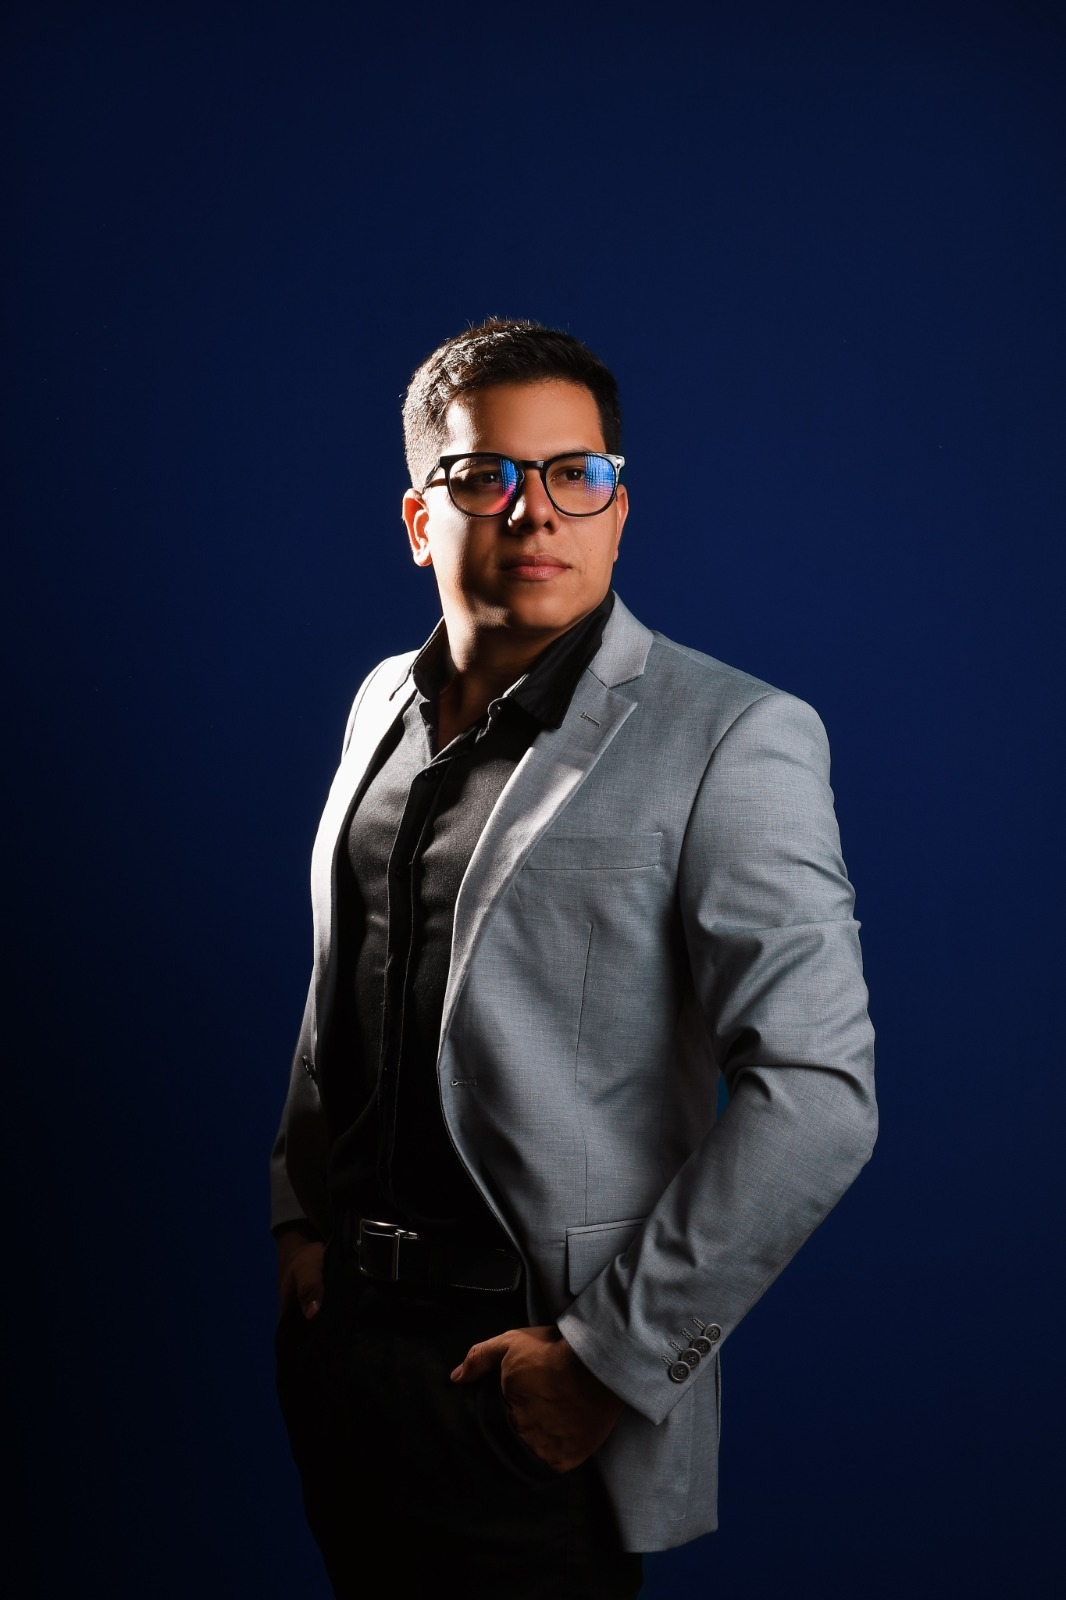
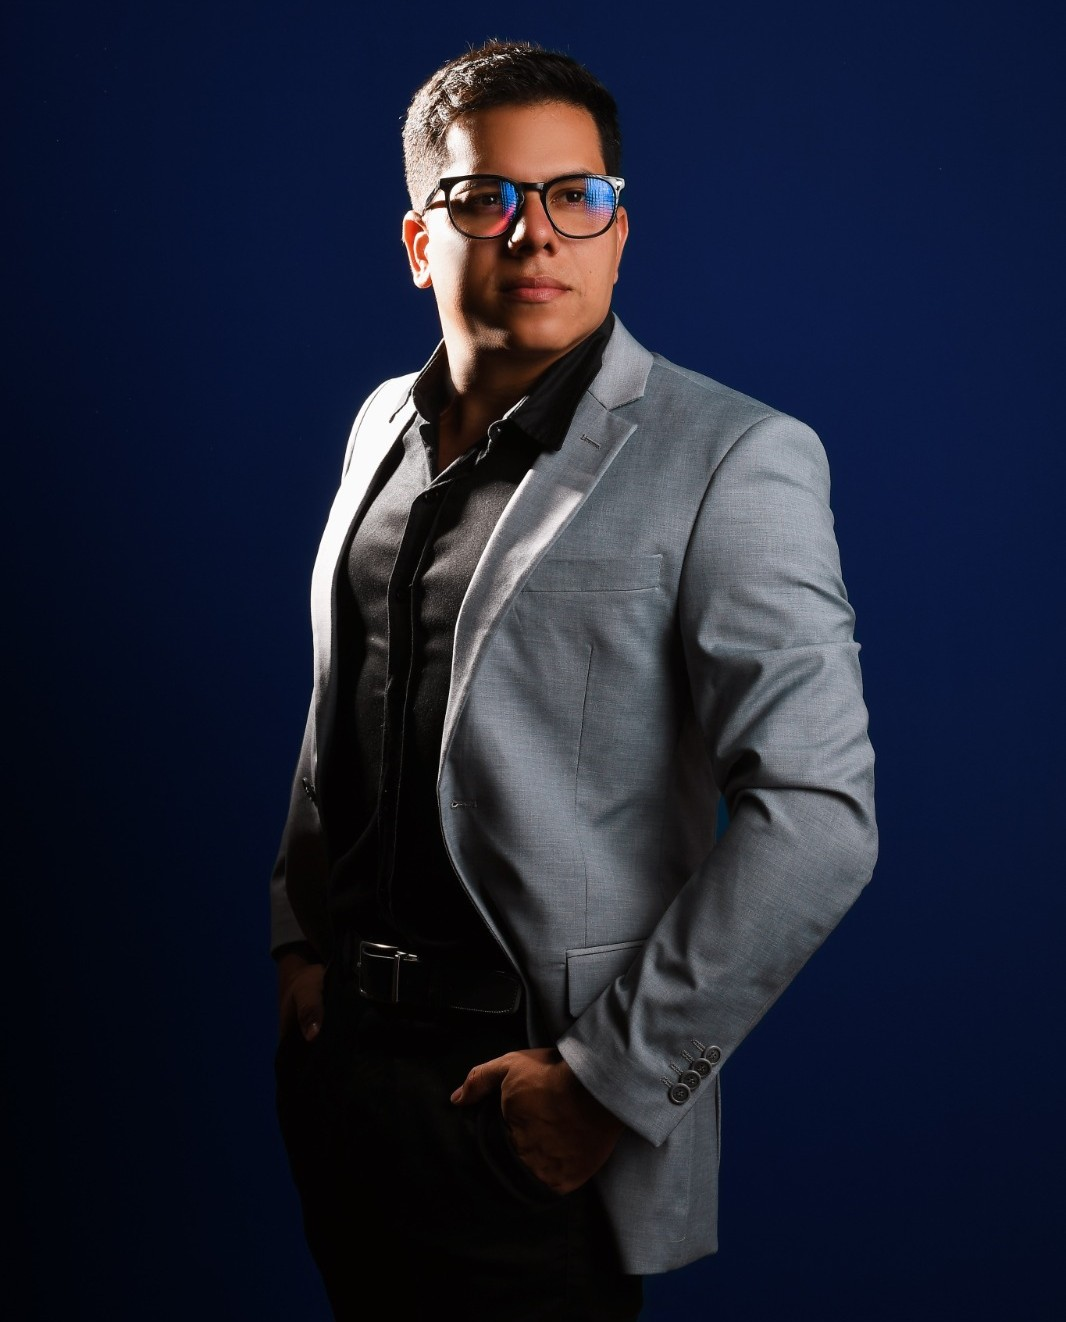
feat: add speaker data library and new profile images

diff --git a/src/lib/data.ts b/src/lib/data.ts
@@ -202,7 +202,7 @@ export const speakerGroups: SpeakerGroup[] = [
           'Leonardo Lima é especialista em crescimento acelerado de vendas com inteligência artificial, tendo ajudado centenas de empresas e profissionais autônomos a estruturarem processos comerciais modernos.',
         ],
         quote: 'A Inteligência Artificial não substitui pessoas; ela multiplica os resultados de quem sabe usá-la.',
-        image: '/palestrantes/Leonardo Lima.jpg',
+        image: '/palestrantes/Leonardo Lima.png',
         socials: { instagram: 'https://instagram.com', linkedin: 'https://linkedin.com' },
       },
       {
